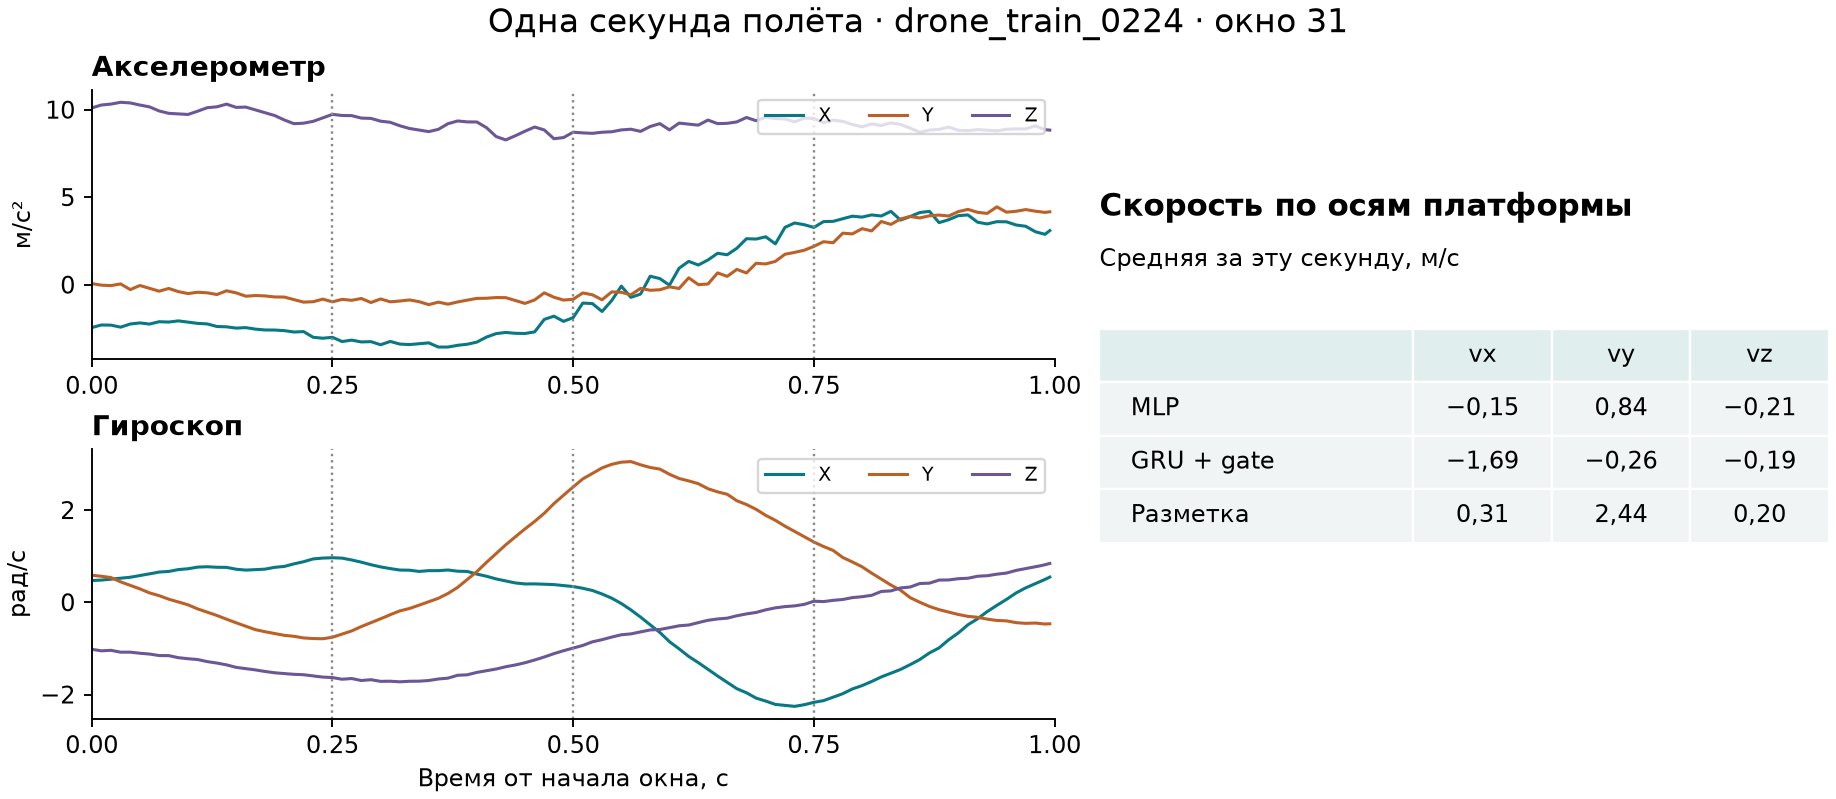
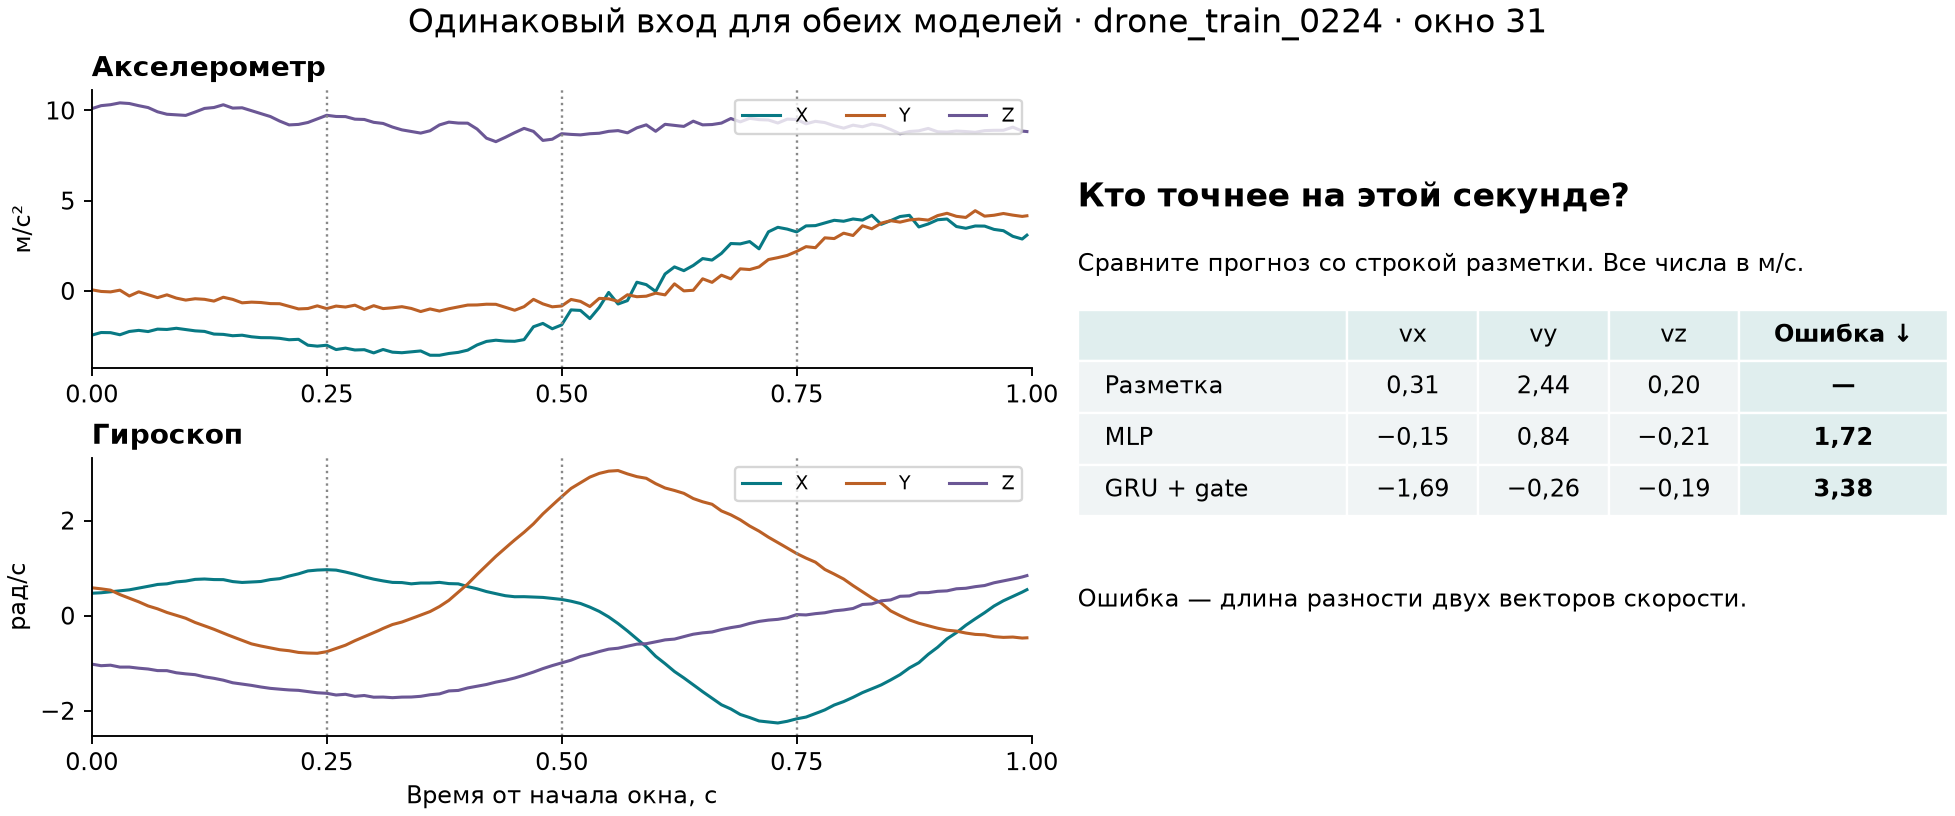
Show the reference and per-model vector error for the illustrated second

diff --git a/exps/hw2/flight_example.py b/exps/hw2/flight_example.py
@@ -11,12 +11,12 @@ from exps.hw2.study import config_for
 from src.data import IMUDataset
 
 
-def plot_window(row, vectors):
+def plot_window(row, predictions, target):
     data_root = config_for("temporal_gate", "all")["data_root"]
     imu = IMUDataset(data_root, "train", row).x[0]
     seconds = np.arange(len(imu)) / 200
-    fig = plt.figure(figsize=(10.8, 4.7), layout="constrained")
-    grid = fig.add_gridspec(2, 2, width_ratios=[1.32, 1])
+    fig = plt.figure(figsize=(11.5, 4.8), layout="constrained")
+    grid = fig.add_gridspec(2, 2, width_ratios=[1.08, 1])
     for i, (title, unit) in enumerate([("Акселерометр", "м/с²"), ("Гироскоп", "рад/с")]):
         ax = fig.add_subplot(grid[i, 0])
         for j, (axis, color) in enumerate(zip("XYZ", ["#087984", "#bb6026", "#6b5795"])):
@@ -31,20 +31,28 @@ def plot_window(row, vectors):
         ax.spines[["top", "right"]].set_visible(False)
     ax = fig.add_subplot(grid[:, 1])
     ax.set_axis_off()
-    ax.text(0, .80, "Скорость по осям платформы", weight="bold", fontsize=13)
-    ax.text(0, .72, "Средняя за эту секунду, м/с", fontsize=10)
-    cells = [[label, *(f"{v:.2f}".replace(".", ",").replace("-", "−") for v in values)]
-             for label, values in vectors]
-    table = ax.table(cellText=cells, colLabels=["", "vx", "vy", "vz"],
-                     cellLoc="center", colWidths=[.43, .19, .19, .19], bbox=[0, .28, 1, .34])
+    def decimal(value):
+        return f"{value:.2f}".replace(".", ",").replace("-", "−")
+
+    cells = [["Разметка", *map(decimal, target), "—"]]
+    for label, vector in predictions:
+        error = np.linalg.norm(vector - target)
+        cells.append([label, *map(decimal, vector), decimal(error)])
+    ax.text(0, .82, "Кто точнее на этой секунде?", weight="bold", fontsize=14)
+    ax.text(0, .72, "Сравните прогноз со строкой разметки. Все числа в м/с.", fontsize=10)
+    table = ax.table(cellText=cells, colLabels=["", "vx", "vy", "vz", "Ошибка ↓"],
+                     cellLoc="center", colWidths=[.31, .15, .15, .15, .24], bbox=[0, .34, 1, .32])
     table.auto_set_font_size(False)
     table.set_fontsize(10)
     for (r, c), cell in table.get_celld().items():
         cell.set_edgecolor("white")
-        cell.set_facecolor("#e0eeee" if r == 0 else "#f0f4f5")
+        cell.set_facecolor("#e0eeee" if r == 0 or c == 4 else "#f0f4f5")
         if c == 0:
             cell.get_text().set_ha("left")
-    fig.suptitle(f"Одна секунда полёта · {row.traj_id.iloc[0]} · окно {row.win_idx.iloc[0]}", fontsize=14)
+        if c == 4:
+            cell.get_text().set_weight("bold")
+    ax.text(0, .20, "Ошибка — длина разности двух векторов скорости.", fontsize=10)
+    fig.suptitle(f"Одинаковый вход для обеих моделей · {row.traj_id.iloc[0]} · окно {row.win_idx.iloc[0]}", fontsize=14)
     fig.savefig(OUT / "imu_window.png", dpi=170)
     plt.close(fig)
 
@@ -73,7 +81,7 @@ def main():
     example = rows[rows.traj_id.eq("drone_train_0224") & rows.win_idx.eq(31)]
     idx = example.index.item()
     plot_window(example, [("MLP", forecasts["mlp_plain"][idx]),
-                          ("GRU + gate", forecasts["temporal_gate"][idx]), ("Разметка", target[idx])])
+                          ("GRU + gate", forecasts["temporal_gate"][idx])], target[idx])
 
     fig, axes = plt.subplots(1, 2, figsize=(10, 3.6), sharex=True, sharey=True, layout="constrained")
     for ax, name, title, color in zip(

diff --git a/exps/hw2/README.md b/exps/hw2/README.md
@@ -23,7 +23,9 @@
 
 ![Акселерометр и гироскоп на секунде 31 полёта drone_train_0224 и результаты обеих моделей по осям X, Y и Z](results/imu_window.png)
 
-В начале этого окна акселерометр показал **(−2,45; +0,06; +10,10) м/с²**, гироскоп — **(+0,47; +0,59; −1,02) рад/с**. Это первая из 200 строк. На графиках показаны исходные сигналы. Вертикальный пунктир отмечает границы участков, которые читает временной энкодер. Столбцы `vx`, `vy`, `vz` справа — средняя линейная скорость за всю секунду в системе координат дрона.
+Левые графики показывают общий вход моделей. Первая из 200 строк содержит ускорение **(−2,45; +0,06; +10,10) м/с²** и угловую скорость **(+0,47; +0,59; −1,02) рад/с**. Вертикальный пунктир отделяет четверти секунды. По этим кривым нельзя однозначно прочитать скорость дрона: для этого нужна в том числе его начальная скорость.
+
+**Как проверить прогноз.** Справа в строке «Разметка» дана эталонная средняя скорость дрона за эту секунду. По оси Y у MLP абсолютное отклонение от неё равно примерно **|0,84 − 2,44| = 1,60 м/с**, а у GRU с gate — **|−0,26 − 2,44| = 2,70 м/с**. Последний столбец объединяет отклонения по всем трём осям: берём квадратный корень из суммы их квадратов, используя значения до округления. Получаем **1,72 м/с у MLP** и **3,38 м/с у GRU с gate**. На этом окне MLP ближе к разметке. Для вывода о моделях в целом ниже сравниваются все пять фолдов. [Сохранённые ошибки по секундам](results/flight_example.csv)
 
 **Как ветви дали итоговый прогноз.** На этом окне получили следующие значения из checkpoint фолда 4. Каждая ветвь предлагает отдельный вектор скорости. Вес gate один для всех трёх компонент данной ветви.
 
